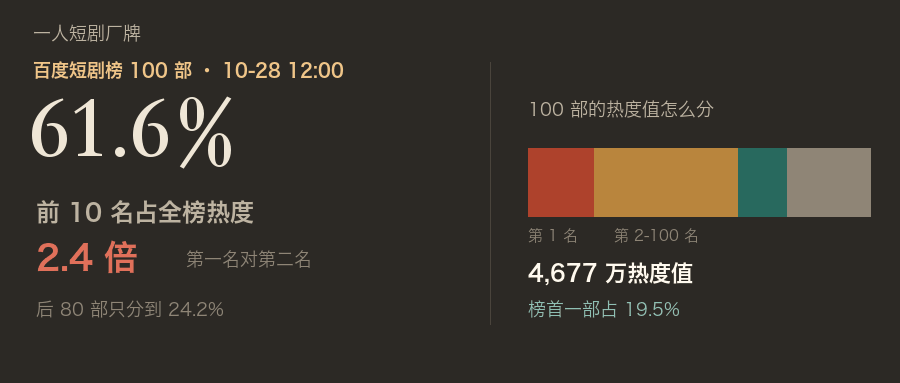
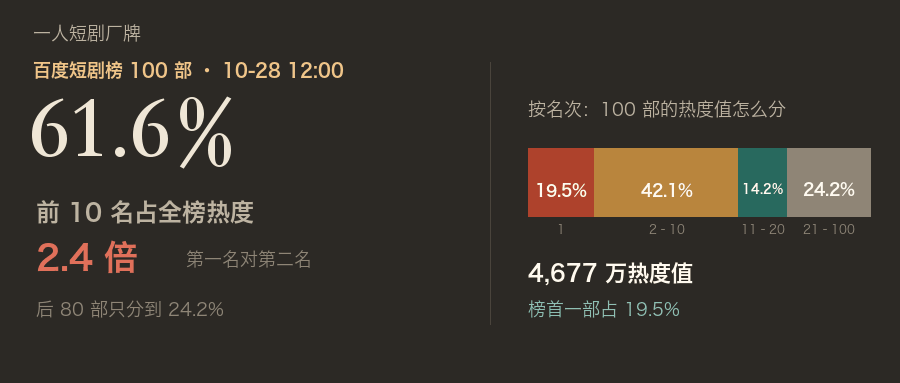
chore(公众号)：候选池扫描留档、10-29 账号检测，整改计划补 10-29 复盘
补 10-28/10-29 的选题扫描与检测读数，复盘记录 08:00 两篇掉到 3/0 的逐篇读数与两条待验分支；049 按管理员决定废弃，只改文案与封面留档。

diff --git a/公众号/素材/_gen_049.py b/公众号/素材/_gen_049.py
@@ -209,15 +209,25 @@ def cover():
 
     d.line((490, 62, 490, 324), fill='#4a443c', width=1)
     x0, span, top, bot = 528, 342, 148, 216
-    segs = [(0.195, '#ae422c'), (0.421, '#b9853d'), (0.142, '#28695e'), (0.242, '#8f8576')]
+    segs = [
+        (0.195, '#ae422c', '19.5%', '1'),
+        (0.421, '#b9853d', '42.1%', '2–10'),
+        (0.142, '#28695e', '14.2%', '11–20'),
+        (0.242, '#8f8576', '24.2%', '21–100'),
+    ]
     x = x0
-    for ratio, color in segs:
+    for ratio, color, pct, rng in segs:
         w = span * ratio
         d.rectangle((x, top, x + w, bot), fill=color)
+        for size in (16, 14, 12):
+            tw = d.textlength(pct, font=font(size, 'bold'))
+            if tw + 6 <= w:
+                put(d, x + (w - tw) / 2, top + 34, pct, size, WHITE, 'bold', x + w - 1)
+                break
+        tw = d.textlength(rng, font=font(12))
+        put(d, x + (w - tw) / 2, bot + 8, rng, 12, '#8f8576', 'body', 900)
         x += w
-    put(d, x0, bot + 12, '第 1 名', 15, '#8f8576', 'body', x0 + 120)
-    put(d, x0 + 86, bot + 12, '第 2-100 名', 15, '#8f8576', 'body', x0 + span + 4)
-    put(d, 528, 100, '100 部的热度值怎么分', 18, '#bdb3a1', 'body', 880)
+    put(d, 528, 100, '按名次：100 部的热度值怎么分', 18, '#bdb3a1', 'body', 880)
     put(d, 528, 262, '4,677 万热度值', 22, WHITE, 'bold', 880)
     put(d, 528, 300, '榜首一部占 19.5%', 18, '#8fc0b4', 'body', 880)
     return im

diff --git a/公众号/整改计划_2026-10-20.md b/公众号/整改计划_2026-10-20.md
@@ -225,18 +225,20 @@ grep -nE '值得注意的是|值得一提的是|事实上|实际上|毫无疑问
 - 037（一半算力造霸总？先把这笔账算完）→ 10-19 豆包回应「55% Token 烧在短剧」争议，单点实测：拆两个分母 + 复算 22 万部 × 20 万元 = 440 亿元 + 摊成片分钟；与 036 锚点（10-19 vs 10-22）、结构（单点实测 vs 对照表）、增量（分母/复算 vs 三档钱）均不同。10-24 12:00 已发表（未群发，当天额度已被 036 占用），记录见 素材/037_编辑信息.json。
 - 038（微信短剧 90% 现金，卡在人均 10 分钟）→ 微信开放平台 2026-09-23 Q4 微短剧小程序激励（10-16 启动、12-31 截止）：把「最高 100%＝90% 现金 + 10% 广告金」拆成人均/最高/广告金三层，再用 60 分钟与 10 分钟两种剧复算人均 10 分钟的难度；与 033（红果下线金币）、036（淘宝双11）、037（算力账）锚点、结构、增量均不同。草稿 100000511，已定时 2026-10-25 15:00（群发通知开启，管理员已扫码），记录见 素材/038_编辑信息.json。
 - 039（红果 10 月取消系列系数，第二部起不再翻倍）→ 红果 2026-09-22《优质 AI 剧生产活动 2.0》：逐项对照旧规／新规（七项不变、一项取消），把 360 分钟拆 3 部的上限账从 100 万算到 60 万，再核对两个被并排进「十月转向」的数字日期（80% 在 05-11、20 万在 07-29）；与 038（09-23 微信、问答、人均时长）锚点、结构（对照表）、增量、小标题骨架四项均不同。已定时 2026-10-25 17:00（未开启群发通知，当日额度已给 038 的 15:00），管理员已扫码确认，记录见 素材/039_编辑信息.json。
-- 040 备选（上海微短剧经费：7 类申报，6 类要审计）→ 已并入 041：单独写上海只覆盖「最高 300 万」，与江西并排后才有「方向相反」的增量，不再单独排期。
+- 040 备选（上海微短剧经费：7 类申报，6 类要审计）→ 已并入 041：单独写上海只覆盖「最高 300 万」，与江西并排后才有「方向相反」的增量，不再单独排期。**2026-10-29 管理员定：废弃，不再上桌**，文件留档。
 - 041（短剧的钱：上海看片单，江西看执照）→ 2026-10-21 上海专项经费指南 + 10-30 江西 AI+OPC 大赛报名截止：上海查完成窗口（2025-10-16—2026-10-15）与主体在沪，江西算清 16 个名额／42 万奖池与「赛后 2 个月内在江西注册 OPC」的后置条件；与 038（微信现金/问答）、039（红果系数/对照表）锚点与增量不同。草稿 100000538，已定时 2026-10-26 10:00（群发通知开启，管理员已扫码），记录见 素材/041_编辑信息.json。
 - 042（14 部入选：总局的口味写在题材里）→ 2026-10-26 新华社稿：总局 Q2 优秀网络视听节目 14 部微短剧入选，按五类题材（非遗 4／国安法治 3／家国历史 3／现实生活 3／乡村 1）拆开，4 部续作；四个转向 + 三个动作。按管理员要求不硬凑数字，删掉成本估算与百分比小数。草稿 100000555，2026-10-26 12:00 定时发表（未群发，当天额度已被 10:00 占用），URL https://mp.weixin.qq.com/s/VlWBP0ExlEn4z0NO59tAew ，记录见 素材/042_编辑信息.json。
 - 043（出海 60 亿美元：AI 剧已经占六成）→ 同一份东盟报告的海外部分：60 亿美元/+67%、下载前 10 全中国背景、本土剧 5%→11%、AI 剧超六成；与 034（国内 49 万部）分工明确，不重复。草稿 100000563，已定时 2026-10-27 08:00（群发通知开启，管理员已扫码），记录见 素材/043_编辑信息.json。
 - 044（即梦上线短剧工作室：流水线收进一个平台）→ 2026-10-26 即梦上线短剧工作室（10-24 小云雀并入）：五步收进一个平台、三个变化、五类资产、三个动作；与 037（算力账）、039（红果系数）不同，讲工具与生产流程。草稿 100000571，已定时 2026-10-27 12:00（未群发，当天额度已被 043 占用），记录见 素材/044_编辑信息.json。
 - 045（横店之夜：15% 预算，要花在剧本上）→ 2026-10-25 第二届横店微短剧之夜：首次《微短剧行业自律公约》、至少 15% 预算投剧本与后期倡议、首设出海/AI 奖、首发全球产业报告；与 042（总局名单）、043（出海数据）同向但切口不同。草稿 100000579，已定时 2026-10-27 14:00（未群发），记录见 素材/045_编辑信息.json。
 - 046（AI 剧 400 亿的市场，和你的万播 5—10 元）→ 2026-10-27 剧短短「红果年化收入逼近 400 亿」+ 10-15 DataEye《2026 上半年 AI 剧漫剧数据报告》+ 9-23 钛媒体「红果广告 200 亿量级」：拆两个 400 亿（市场预测 / 平台收入），用 1.68 亿 DAU 复算每 DAU 每天 0.33 元；万播 30—100 元→5—10 元，100 万播放从 3,000—10,000 元降到 500—1,000 元。与 033（金币公告）、039（系数）、046 备选（备案）锚点/结构/增量均不同。草稿 100000587，已定时 2026-10-28 08:00（已开启群发通知，管理员本人扫码验证），记录见 素材/046_编辑信息.json。
-- 046 备选（9 月重点微短剧备案 224 部：都市回到第一）→ 9-29 总局重点微短剧规划备案公示 + 10-23 Q3 发行许可通告：三个月 143→207→224，都市 65 部回到第一、传奇 58 部（-10.8pp）；备案与发行许可两套口径不能相减。文章、增量卡、三图一封面已备，留作 12:00 或改日；素材见 046备选_*。
+- 046 备选（9 月重点微短剧备案 224 部：都市回到第一）→ 9-29 总局重点微短剧规划备案公示 + 10-23 Q3 发行许可通告：三个月 143→207→224，都市 65 部回到第一、传奇 58 部（-10.8pp）；备案与发行许可两套口径不能相减。**2026-10-29 管理员定：挂起，等 10 月备案公示出来后换成 10 月数据重写，不按 9 月口径发**——总局按月公示（9 月版 9-29 发布），10-30 起每日查总局公示页，拿到 10 月数据当日核对部数、都市/传奇份额，把「三个月」改成 7—10 月四个月对照并重出三图；现有 9 月稿、增量卡、三图一封面留作底稿，素材见 046备选_*。2026-10-29 11:35 查总局「公告公示」页：最新条目 10-28，尚无 10 月微短剧备案公示。
 - 047（红果否认 400 亿，腾讯短剧周活 8968 万）→ 10-27 21:09 红果官方微博否认「年化收入逼近 400 亿」「今年营收 420—450 亿」+ 21:23 李亮称腾讯短剧增速远超抖音和红果 + QuestMobile 绿泡泡短剧 10 月首周 WAU 8,968 万（+44.1%）：24 小时时间线、表态对照、DAU/MAU/WAU 三个分母不可排名，并把 046 的「平台收入待确认」更正为「不实」。**首个按新增热度门筛选的选题**（24 小时内、8 家以上独立媒体、热度凭据见增量卡）。与 046 锚点/结构/增量/小标题骨架四项均不同。草稿 100000596，已定时 2026-10-28 11:53（未群发，当日额度已被 046 的 08:00 占用；计划 11:45，时间选择器分钟未生效落 11:53，仍在上午窗口），管理员本人扫码，记录见 素材/047_编辑信息.json。
 - 048（红果处置 2 万部：换皮、同脸、撞脸，红线在哪）→ 10-27 红果公告称已处置低质、同质化微短剧 20,426 部，点名 6 部：拆公告写了什么（三类问题、6 部点名、20,426 部）与没写什么（统计区间、相似度阈值、处置手段），并排 04-06（1,718 部漫剧）/07-23（角色区分度）两公告说明治理范围扩张，附 10-21 金币分阶段下线与 10-23 防沉迷作同向背景；「65% 相似度」只存在于自媒体，不写进正文。草稿 100000607，已定时 2026-10-28 14:00（未群发，当日额度已被 046 的 08:00 占用；原定 19:30，按管理员要求改为 14:00，取消后重设并再次扫码），记录见 素材/048_编辑信息.json。
-- 049（短剧没上热搜，百度短剧榜前 10 名吃掉 61.6% 热度）→ 10-28 12:00 百度短剧榜 100 部：前 10 名占 61.6% 热度、题材结构与集数分布；稿与三图已备，草稿已存、**未定时**（让位 050 的银发选题），素材见 049_增量卡.md 与 049_*.png。
+- 049（短剧没上热搜，百度短剧榜前 10 名吃掉 61.6% 热度）→ 10-28 12:00 百度短剧榜 100 部：前 10 名占 61.6% 热度、题材结构与集数分布；稿、三图、封面与增量卡已备，**未定时**（让位 050 的银发选题）。2026-10-29 11:20 核草稿箱为 0 篇，后台已无 049 草稿（此前「草稿已存」的记录作废），重发需重新导入；素材见 049_增量卡.md 与 049_*.png。**2026-10-29 管理员定：废弃，不再上桌**——稿、图、封面只留档，不再导入后台、不再列为库存。
 - 050（75 岁大爷刷 AI 短剧刷到脑梗，银发用户已有 4,653 万）→ 健康杭州 10-28 病例（75 岁、硬扛 14 小时、4.5 小时溶栓窗口）+ QuestMobile 银发 4,653 万/小程序 51+ 占 31.2% + CSM 人均单日 2 小时 + 红果 10 月三动作（10-21 金币退坡、10-23 休息/睡眠提醒、10-27 处置 20,426 部）+ 本号抓榜算集数中位 65：核心增量是把个案接回用户结构，并指出三件事都没碰「一集接一集」的播放结构，结论落到三个可执行动作。首个以医疗个案过热度门的主稿（百度热搜 10-28 18:10 第 45 位、6 家以上跟进）。草稿 100000633，已定时 2026-10-29 08:00（已开启群发通知，管理员本人扫码），记录见 素材/050_编辑信息.json。
+- 051（减亏 74.63%，营收又降 17.64%：AI 短剧省下的钱去哪了）→ 中文在线 2026 三季报（10-26 披露，北京日报/新浪财经/同花顺/财中社四家交叉）：利润表拆账——营收 8.33 亿（-17.64%）、归母 -1.32 亿（减亏 74.63%）、营业成本 4.44 亿（-32.91%）、销售费用 3.84 亿（-41.84%）；本号复算毛利率 34.6%→46.7%、减亏 3.88 亿的构成（净 +3.16 亿，差 0.72 亿不配平）、毛利 3.89 亿对上投流 3.84 亿、Q3 单季亏 0.89 亿占前三季三分之二。草稿 100000638，已定时 2026-10-29 11:55（未群发，当日额度已被 050 的 08:00 占用），管理员本人扫码，记录见 素材/051_编辑信息.json。
+- 052（微短剧扶持查了一圈：11 个口子还开着，个人能拿的只有两条）→ 读者私信「政策与扶持」（幽蓝，10-28 19:38）+ 上海 2026 专项（10-21—11-18、主体限上海经营单位、精品含 AI 最高 300 万）+ 微信 Q4 激励（10-16—12-31、IAA 最高 70%/联合发行 100%）+ 微信小说改编第一期（首期 10 部、双方各 5%、签约 11-01—12-31）：筛出仍可参与的 11 个口子并列 4 个已截止，政府端 5 个全部要求企业/机构主体，平台端 6 个里个人能直接拿钱的只有卖剧本与卖改编权；附三道门、四行核法与三个动作，配可筛选台账站点 https://duanju-policy.pages.dev 。原拟 10-30 08:00 定时，10-29 管理员改现发；草稿 100000650，2026-10-29 14:37 发表（未群发，当日额度已被 050 占用），管理员本人扫码，URL https://mp.weixin.qq.com/s/4XTeCzIlZO_sCmYqWMzj5g ，记录见 素材/052_编辑信息.json。同日补自定义菜单「扶持台账」（发送消息→文字，内容含站点链接）：菜单「跳转网页」只能指向本号内容，填外链被拒（「发布失败，链接内容不属于当前公众号」），故改走文字消息；后台 15:00 前后显示「菜单发布中，预计60分钟后生效」。正文外链不可点、「原文链接」未设，入口只有这条菜单与「政策/扶持」关键词自动回复。
 
 ---
 
@@ -264,6 +266,54 @@ grep -nE '值得注意的是|值得一提的是|事实上|实际上|毫无疑问
   满足后再评估恢复栏目名与双更。
 - **若 11-02 仍被点名**：降到每周 3 篇，只保留「外部事件 + 复算」一种结构，再观察两周；不删除旧文。
 
+### 2026-10-29 复盘：08:00 两篇塌到 3 / 0，全账号一起掉
+
+**读数（A 级：后台「发表记录」页逐篇阅读数，2026-10-29 上午核查）**
+
+| 发表时间 | 篇目 | 群发 | 阅读 |
+|---|---|---|---|
+| 10-26 10:00 | 041 上海看片单/江西执照 | 是 | 101 |
+| 10-26 11:02 | 榜 009 周报贴图 | 否 | 44 |
+| 10-26 12:00 | 042 总局 14 部 | 否 | 120 |
+| 10-27 08:00 | 043 出海 60 亿美元 | 是 | 142 |
+| 10-27 12:00 | 044 即梦短剧工作室 | 否 | 124 |
+| 10-27 14:00 | 045 横店之夜 15% | 否 | 132 |
+| 10-28 08:00 | 046 AI 剧 400 亿 | 是 | **3** |
+| 10-28 11:53 | 047 红果否认 400 亿 | 否 | 72 |
+| 10-28 14:00 | 048 红果处置 2 万部 | 否 | 66 |
+| 10-29 08:00 | 050 75 岁大爷 | 是 | **0** |
+
+按日合计：10-26 265 → 10-27 398 → 10-28 141（-65%）→ 10-29 截至核查 0。粉丝 30，全站累计发表 61 次。
+
+**能确定的**
+
+1. **群发本身不是变量**。043 同为 08:00 群发，拿到 142；账号只有 30 个粉丝，群发最多触达几十人，142 与 3 的差别不可能来自群发开关。
+2. **掉量是全账号的，不是「8 点那两篇」独有**。10-28 三篇中未群发的 047/048 也只有 72/66，比 10-27 同位置的 124/132 少了四到五成。
+3. **拐点在 10-28 08:00 前后**，且塌陷幅度（142→3）远超正常的单篇波动，与 10-20 那次「低创作度内容，此类内容暂未开放推荐」被点名前的形态一致。
+
+**推断（C 级，未验证）**
+
+> 管理员判断（2026-10-29）：「最可疑的一点：10-28 一天发了三篇，全部围绕红果——400 亿、否认、2 万部治理。这正好是低创作度判定里『同一主题/素材反复加工』的形态。今天这篇脑梗文阅读量为 0，可能是剩余影响，也可能是题材问题：医疗负面内容不容易进入推荐。」
+
+- 拆成两条可检验的分支：① **同题反复加工**（10-28 三篇同主体，对应《推荐运营规范》§7.1 同质化、运营规范 3.28 套路化）——若是它，047/048 的低读数与 046 的 3 是同一根因，换题即可恢复；② **题材压推荐**（050 医疗负面开场）——若是它，只影响 050 这一篇，046 的 3 还得另找原因。
+- 排除项：不是群发失效（见上），不是粉丝流失（30，与 10-27 持平），暂不能证实是账号处罚（后台尚未出点名）。
+
+**待验证**
+
+- 10-29 12:30 账号检测：是否出现「低创作度内容」优化项、账号是否被限制推荐。这是区分「平台判定」与「自然波动」的唯一 A 级凭据。
+- 两条分支的判别：红果同题（非医疗）的 047/048 在 050 之前就已腰斩（124/132 → 72/66），说明 ① 在同题第二天就起作用了；050 的 0 是不是叠加了 ②，要看下一篇**既不碰红果、也不带负面个案**的稿子能否回到 100+。一次只能改一个变量。
+- 若检测干净，说明是推荐池层面冷处理，靠下一篇的内容质量与题材换回来；若被点名，按 §六 走申诉 + 本计划恢复条件。
+
+**回填（10-29 14:30 检测，A 级）**：5 类全绿、0 优化项、无「低创作度内容」项，账号未被点名；最近 7 天阅读 2,384 / 分享 57。即本条待验证项指向「推荐池层面冷处理」，不是账号处罚。
+
+**候选规则（待管理员裁决，未生效）**
+
+1. **同一主体 48 小时内最多 1 篇**：同公司/同平台的连续动作（如红果的辟谣与处置）合并成一篇写，或隔 48 小时再写第二篇。
+2. **不再把群发当阅读手段**：08:00 主稿的群发开关按「是否值得打扰 30 个粉」决定，不作为打开阅读的假设；阅读仍靠推荐。
+3. **主稿换正面/机会类选题试一次**：08:00 发一篇不含负面个案的选题（政策、数据、机会），观察 24 小时能否回到 100+，用于验证「题材/情绪影响推荐」这一假设。
+
+> 待定：本复盘记录后，当日是否停更等 12:30 检测结果，管理员尚未裁决；在裁决前不改动已排期稿件。
+
 ---
 
 ## 八、存量处置
@@ -278,6 +328,9 @@ grep -nE '值得注意的是|值得一提的是|事实上|实际上|毫无疑问
 | 榜 006（10-21） | 已发表并记账（素材/榜006_编辑信息.json），线上三图逐像素核验通过 |
 | 榜 007（10-22） | 已发表并记账（素材/榜007_编辑信息.json），线上三图逐像素核验通过；占用原 007 期号，周一 10-26 改发 009 |
 | 榜 008（10-23） | 已发表并记账（素材/榜008_编辑信息.json），线上三图已按 share_imageinfo 顺序核对；占用原 008 期号，周报再顺延为 009（10-26） |
+| 046 备选（9 月备案 224 部） | **挂起，不按 9 月口径发**：等 10 月重点微短剧规划备案公示（按月，9 月版 9-29）出来后换 10 月数据重写为 7—10 月四个月对照；9 月稿与三图留作底稿，重写前不进后台 |
+| 049（百度短剧榜集中度） | **废弃（2026-10-29 管理员定）**：不再上桌、不再导入；稿、三图、封面、增量卡留档，后台无草稿 |
+| 039 备选（上海微短剧经费） | **废弃（2026-10-29 管理员定）**：已并入 041，不再单独发；文件留档 |
 
 ---
 

diff --git a/公众号/素材/候选池.md b/公众号/素材/候选池.md
@@ -50,3 +50,89 @@
 
 
 <!-- 2026-10-28 18:59 扫描：360资讯 30 条 / 新浪滚动 5 条；候选 0 -->
+
+## 2026-10-28 19:09 扫描（候选 1 条）
+<!-- 源状态：Qoder Agent WebSearch 42 组关键词 / 约 250 条结果（含重复） -->
+
+### 减亏74.63%背后，中文在线前三季度营收降17.64%
+
+- 搜索词：短剧、AI短剧、短剧财报、中文在线三季报
+- 平台：北京日报 / 新浪财经 / 同花顺 / 财中社（独立来源 4 个）
+- 查询时间：2026-10-28 19:09
+- 可见指标：热度未取到（各页仅显示发布时间：北京日报 2026-10-26；新浪财经 2026-10-27；同花顺 2026-10-26；财中社 2 天前）
+- 来源条目：
+  - [北京日报] 减亏74.63%背后，中文在线前三季度营收降17.64%（2026-10-26）https://news.bjd.com.cn/2026/10/26/12007850.shtml
+  - [新浪财经] 营收却越做越少 中文在线Q1-Q3营收环比持续下滑（2026-10-27）https://finance.sina.com.cn/stock/aigcy/2026-10-27/doc-iniwrzht4587215.shtml
+  - [同花顺] AI短剧制作成本降低 中文在线前三季度同比减亏（2026-10-26）http://stock.10jqka.com.cn/20261026/c681099322.shtml
+  - [财中社] 中文在线2026年前三季度营收8.3亿元，同比大幅减亏（2 天前）https://rccaijing.com/news-7520285480626877769.html
+
+## 2026-10-29 10:05 扫描（候选 1 条）
+<!-- 源状态：360资讯 31 条 / 新浪滚动 1 条 -->
+
+### 红果短剧:治理批量 "换皮""多人同脸""跨剧撞脸"等问题
+
+- 搜索词：短剧、红果、微短剧
+- 平台：南方网 / ZAKER / 中金网（独立来源 3 个）
+- 查询时间：2026-10-29 10:05
+- 可见指标：南方网 18小时前；ZAKER 9小时前；中金网 15小时前
+- 来源条目：
+  - [南方网] 红果短剧公告:持续加强低质和同质化内容治理（18小时前）https://news.southcn.com/node_08203b6b14/a91e04fa47.shtml
+  - [ZAKER] 红果短剧:治理批量 "换皮""多人同脸""跨剧撞脸"等问题（9小时前）http://www.myzaker.com/article/6ae056e88e9f09583f4d31f3
+  - [中金网] 红果短剧加强低质和同质化内容治理,处置超两万部问题微短剧（15小时前）http://3g.cnfol.com/news/shangyeyaowen/20261028/32409938.shtml
+
+## 2026-10-29 10:11 扫描（候选 2 条）
+<!-- 源状态：Qoder Agent WebSearch 47 组关键词；候选 2 条 -->
+
+### 微信短剧用户大增！AI漫剧概念爆发，果麦文化20cm涨停
+
+- 搜索词：短剧、AI短剧、AI漫剧、微信短剧
+- 平台：21世纪经济报道 / 央广财经 / 金融界 / 观点网（独立来源 4 个）
+- 查询时间：2026-10-29 10:11
+- 可见指标：热度未取到（各页仅显示发布时间：21财经 2026-10-28；央广财经 2026-10-28；金融界 2026-10-28 13:58；观点网 2026-10-28）
+- 来源条目：
+  - [21世纪经济报道] 微信短剧用户大增！AI漫剧概念爆发，果麦文化20cm涨停（2026-10-28）https://www.21jingji.com/article/20261028/herald/1301c5b5bc5ea2b2cb07b6eb359fc979.html
+  - [央广财经] AI漫剧概念股走强5只个股一天涨幅超10%（2026-10-28）https://finance.cnr.cn/ycbd/20261028/t20261028_527855399.shtml
+  - [金融界] A股短剧概念股集体上涨，掌阅科技等多股涨停（2026-10-28 13:58）https://m.jrj.com.cn/madapter/stock/2026/10/28135858905888.shtml
+  - [观点网] 腾讯绿泡泡短剧小程序月活达1.43亿 AI漫剧概念股异动拉升（2026-10-28）https://finance.sina.com.cn/stock/estate/integration/2026-10-28/doc-iniwueft3724279.shtml
+
+### 算力“烧钱”、回款滞后，AI短剧靠什么拿到银行贷款？
+
+- 搜索词：短剧、AI短剧、短剧融资、OPC
+- 平台：每日经济新闻 / 中国经营报（独立来源 2 个）
+- 查询时间：2026-10-29 10:11
+- 可见指标：热度未取到（各页仅显示发布时间：每经 2026-10-28；中国经营报 2026-10-25）
+- 来源条目：
+  - [每日经济新闻] 算力“烧钱”、回款滞后，AI短剧靠什么拿到银行贷款？（2026-10-28）https://www.mrjjxw.com/articles/2026-10-27/4622455.html
+  - [中国经营报（新浪财经转载）] AI短剧火爆出圈 银行探索“贷款+订单”融资新模式（2026-10-25）https://finance.sina.com.cn/jjxw/2026-10-25/doc-iniwmtkv3134233.shtml
+
+## 2026-10-29 11:05 扫描（候选 1 条）
+<!-- 源状态：360资讯 32 条 / 新浪滚动 1 条 -->
+
+### 短剧片场的乡土灯光师(身边的新鲜事)
+
+- 搜索词：短剧
+- 平台：中国经济网 / 人民网四川频道（独立来源 2 个）
+- 查询时间：2026-10-29 11:05
+- 可见指标：中国经济网 2小时前；人民网四川频道 2小时前
+- 来源条目：
+  - [中国经济网] 短剧片场的乡土灯光师（2小时前）http://m.ce.cn/village/202610/t20261029_3275270.shtml
+  - [人民网四川频道] 短剧片场的乡土灯光师(身边的新鲜事)（2小时前）http://sc.people.com.cn/n2/2026/1029/c345167-41735472.html
+
+## 2026-10-29 12:05 扫描（候选 1 条）
+<!-- 源状态：360资讯 33 条 / 新浪滚动 1 条 -->
+
+### 播放40亿,AI短剧《持械入宋》爆火,一处"败笔"让人意难平!
+
+- 搜索词：短剧、AI短剧
+- 平台：网易 / 中金网（独立来源 2 个）
+- 查询时间：2026-10-29 12:05
+- 可见指标：网易 41分钟前；中金网 15小时前
+- 来源条目：
+  - [网易] 播放40亿,AI短剧《持械入宋》爆火,一处"败笔"让人意难平!（41分钟前）https://www.163.com/dy/article/LAD8UOOB0537NG9W.html
+  - [中金网] 多股涨超10%!AI短剧持续爆火,概念股大涨（15小时前）http://3g.cnfol.com/sc_stock/shichangceping/20261028/32410052.shtml
+
+<!-- 2026-10-29 13:05 扫描：360资讯 31 条 / 新浪滚动 1 条；候选 0 -->
+
+<!-- 2026-10-29 13:12 扫描：Qoder Agent WebSearch 0 条；候选 0 -->
+
+<!-- 2026-10-29 14:05 扫描：360资讯 29 条 / 新浪滚动 1 条；候选 0 -->

diff --git a/公众号/账号检测记录.md b/公众号/账号检测记录.md
@@ -16,3 +16,6 @@
 | 2026-10-26 | 0 | 无问题项 | 无新增 | 1241 | 20 | 内容分析·最近7天；检测页 5 类全绿（基础功能/账号资料/互动管理/认证与一致性/符合内容推荐条件），无「低创作度内容」项；页头上周(10.19-10.25)24篇被推荐（前一周14篇）；未申诉；后台 token 已更换（旧 token 失效，账号名仍为「一人短剧厂牌」） |
 | 2026-10-27 | 0 | 无问题项 | 无新增 | 1696 | 29 | 内容分析·最近7天；检测页 5 类全绿（基础功能/账号资料/互动管理/认证与一致性/符合内容推荐条件），无「低创作度内容」项；页头上周(10.19-10.25)24篇被推荐；未申诉；后台 token 已更换（旧 token 失效，账号名仍为「一人短剧厂牌」） |
 | 2026-10-28 | 0 | 无问题项 | 无新增 | 2161 | 51 | 内容分析·最近7天；检测页 5 类全绿（基础功能/账号资料/互动管理/认证与一致性/符合内容推荐条件），无「低创作度内容」项；页头上周(10.19-10.25)24篇被推荐；未申诉；后台 token 已更换（旧 token 失效，账号名仍为「一人短剧厂牌」） |
+| 2026-10-29 | 0 | 无问题项 | 无新增 | 2384 | 57 | 内容分析·最近7天；检测页 5 类全绿（基础功能/账号资料/互动管理/认证与一致性/符合内容推荐条件），无「低创作度内容」项；页头上周(10.19-10.25)24篇被推荐；未申诉；后台 token 未更换（账号名仍为「一人短剧厂牌」） |
+
+> **待办（2026-10-29 记录）**：10-28 08:00 群发稿（046）阅读 3、10-29 08:00 群发稿（050）阅读 0，且未群发的 047/048 也从 124/132 掉到 72/66——全账号自 10-28 起同步掉量（日合计 10-27 398 → 10-28 141 → 10-29 暂 0）。逐篇读数、推断与候选规则见 `整改计划_2026-10-20.md` §七「2026-10-29 复盘」。12:30 检测跑完在本表补 10-29 行，并在复盘段回填「是否出现低创作度点名」。

diff --git a/公众号/文章/049_发布版.md b/公众号/文章/049_发布版.md
@@ -6,7 +6,7 @@
 
 百度短剧榜 10 月 28 日 12:00 更新的 100 部里，第一名《离婚后我觉醒仙帝修仙》热度值 910.8 万，是第二名的 2.4 倍。
 
-两件事放在一起，能看出短剧现在的位置：大众舆论场里没有它，流量在自己的垂直榜里闭环，而且高度集中。
+两件事放在一起，能看出短剧现在的位置：大众舆论场里没有它，流量都在自己的垂直榜里流动，而且高度集中。
 
 ## 先说清楚这个榜是什么
 
